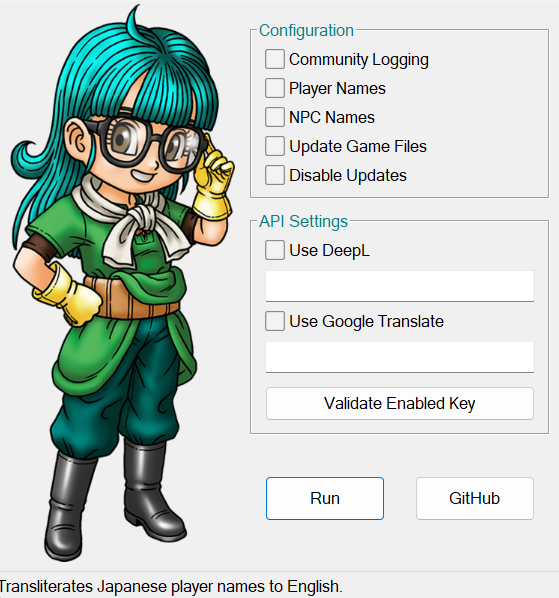
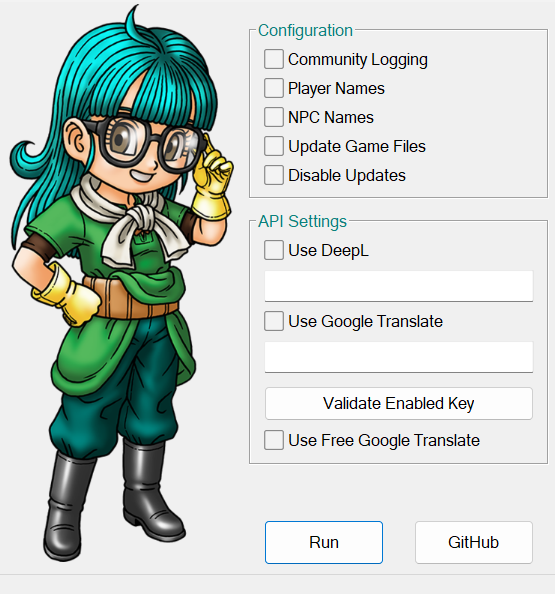
Update dqxclarity GUI; mention google translate free.

diff --git a/docs/dqxclarity.md b/docs/dqxclarity.md
@@ -8,8 +8,9 @@ dqxclarity is a Python program that enables the game to display in English. It u
 
 ## pre-requirements
 
-- A live translation API key
-    - Currently, only [DeepL](./dqxclarity/apis/deepl.md) and [Google Translate](./dqxclarity/apis/google_api.md) are supported.
+- (Recommended) A live translation API key
+    - Currently, only [DeepL](./dqxclarity/apis/deepl.md) and [Google Translate](./dqxclarity/apis/google_api.md) are supported
+    - Note that this is not _mandatory_, but highly advised. dqxclarity also has the option of using a "free" version of Google Translate, which sneakily uses Google's Mobile UI. The translation is not nearly as good or stable as using one of the options above.
 
 !!! tip
 
@@ -43,11 +44,11 @@ dqxclarity is a Python program that enables the game to display in English. It u
     - **Player Names**
     - **NPC Names**
     - **Update Game Files**
-    - Selecting either **Use DeepL** or **Use Google Translate**, based on the API that you signed up for in the [pre-requirements](#pre-requirements) section
+    - Selecting either **Use DeepL**,  **Use Google Translate**, or **Use Free Google Translate**  based on the decision you made in the [pre-requirements](#pre-requirements) section
 
 !!! note "Validating your key"
 
-    Once you have checked one of the API options and entered your key, click "Validate Enabled Key" and check out the message at the bottom. You should receive some type of "success" message if the key works. If the key fails to validate, you will see "Failed to validate key." If this is the case, please ensure that the key was pasted correctly. If you need help with this, please join the [Discord](https://discord.gg/dragonquestx) and ask for help in the **#clarity-questions** channel.
+    Once you have checked one of the API options and entered your key, click "Validate Enabled Key" and check out the message at the bottom. You should receive some type of "success" message if the key works. This does not work with the "free" options. If the key fails to validate, you will see "Failed to validate key." If this is the case, please ensure that the key was pasted correctly. If you need help with this, please join the [Discord](https://discord.gg/dragonquestx) and ask for help in the **#clarity-questions** channel.
 
 - Click "Run"
 - On your first launch, you will be prompted to install Python. Click "Yes"
@@ -57,7 +58,6 @@ dqxclarity is a Python program that enables the game to display in English. It u
 - User Account Control will ask for elevated permissions to install Python. Click "Yes"
 
 <center>![python_install_progress](./asset/dqxclarity/python_install_progress.png){ width="500" }</center>
-
 
 - Python will install. Wait until the installation has completed
 - Once completed, you will see "Installing dqxclarity dependencies". Wait for this to complete
